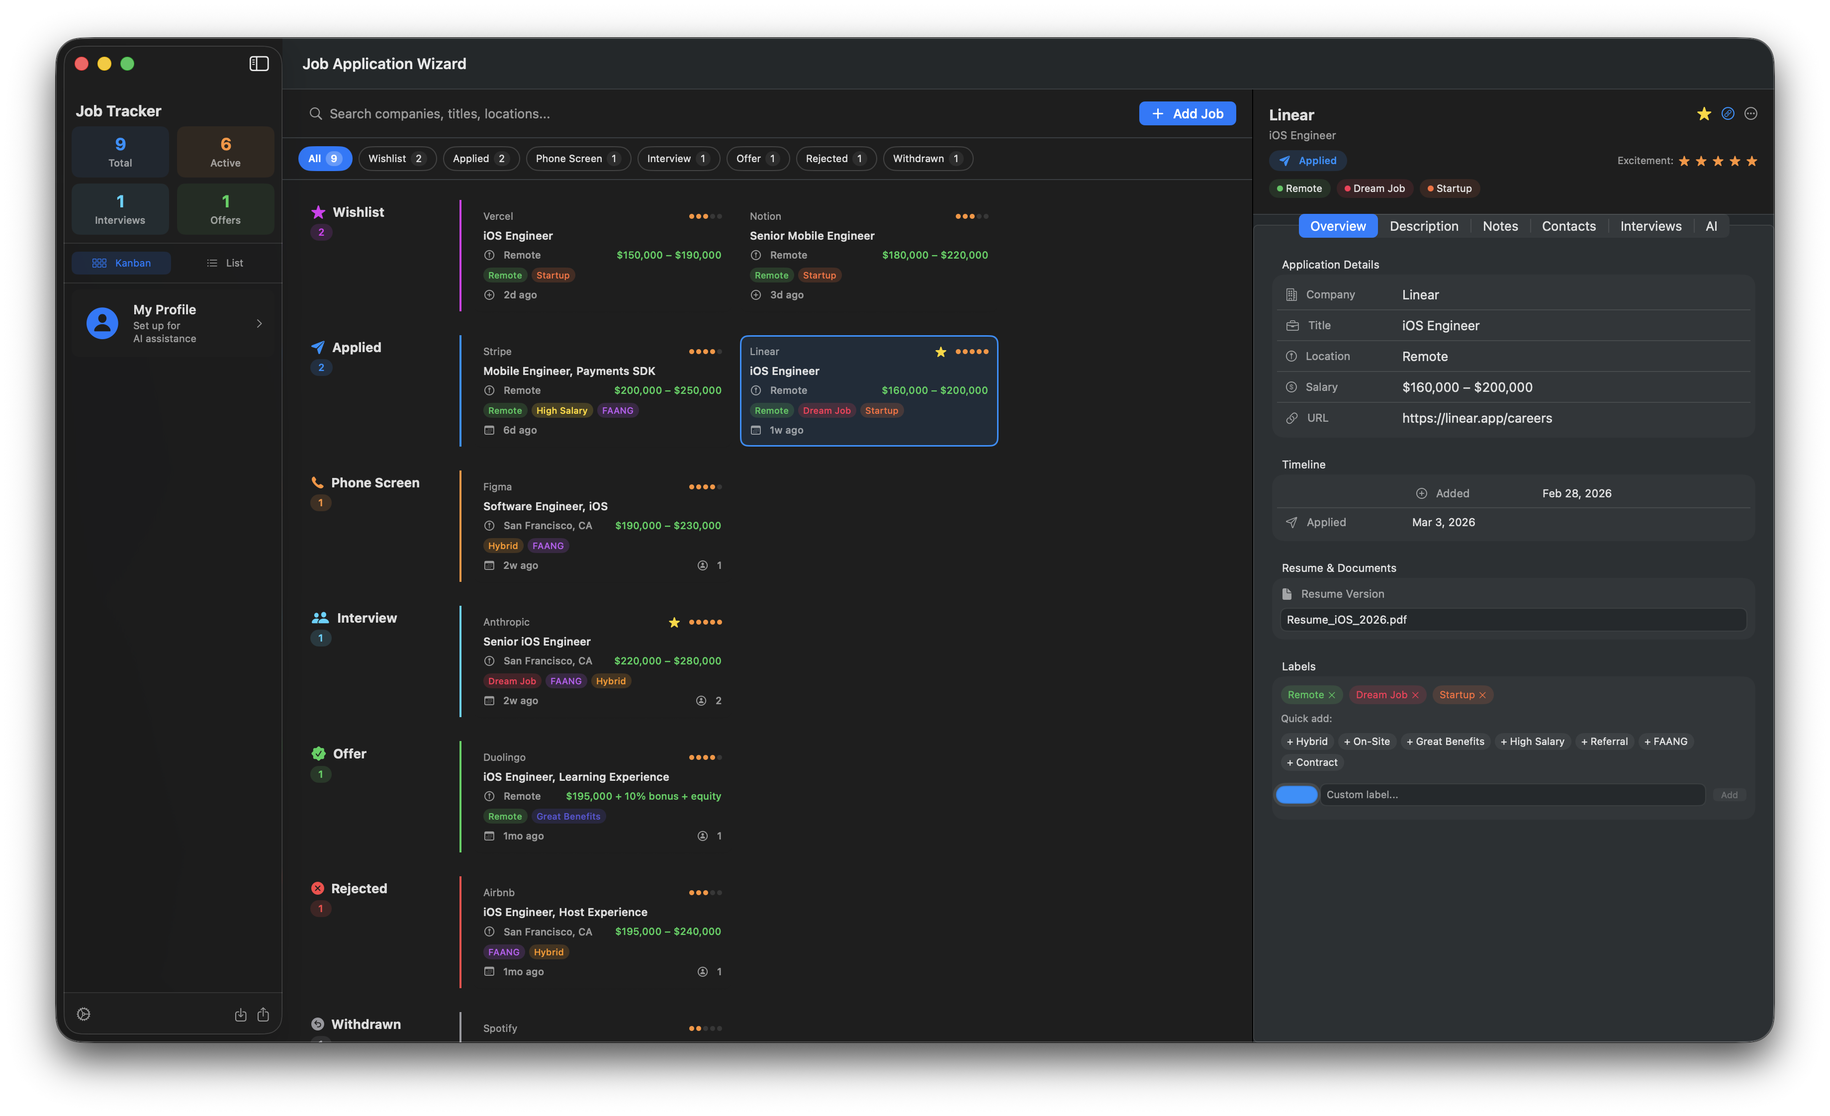
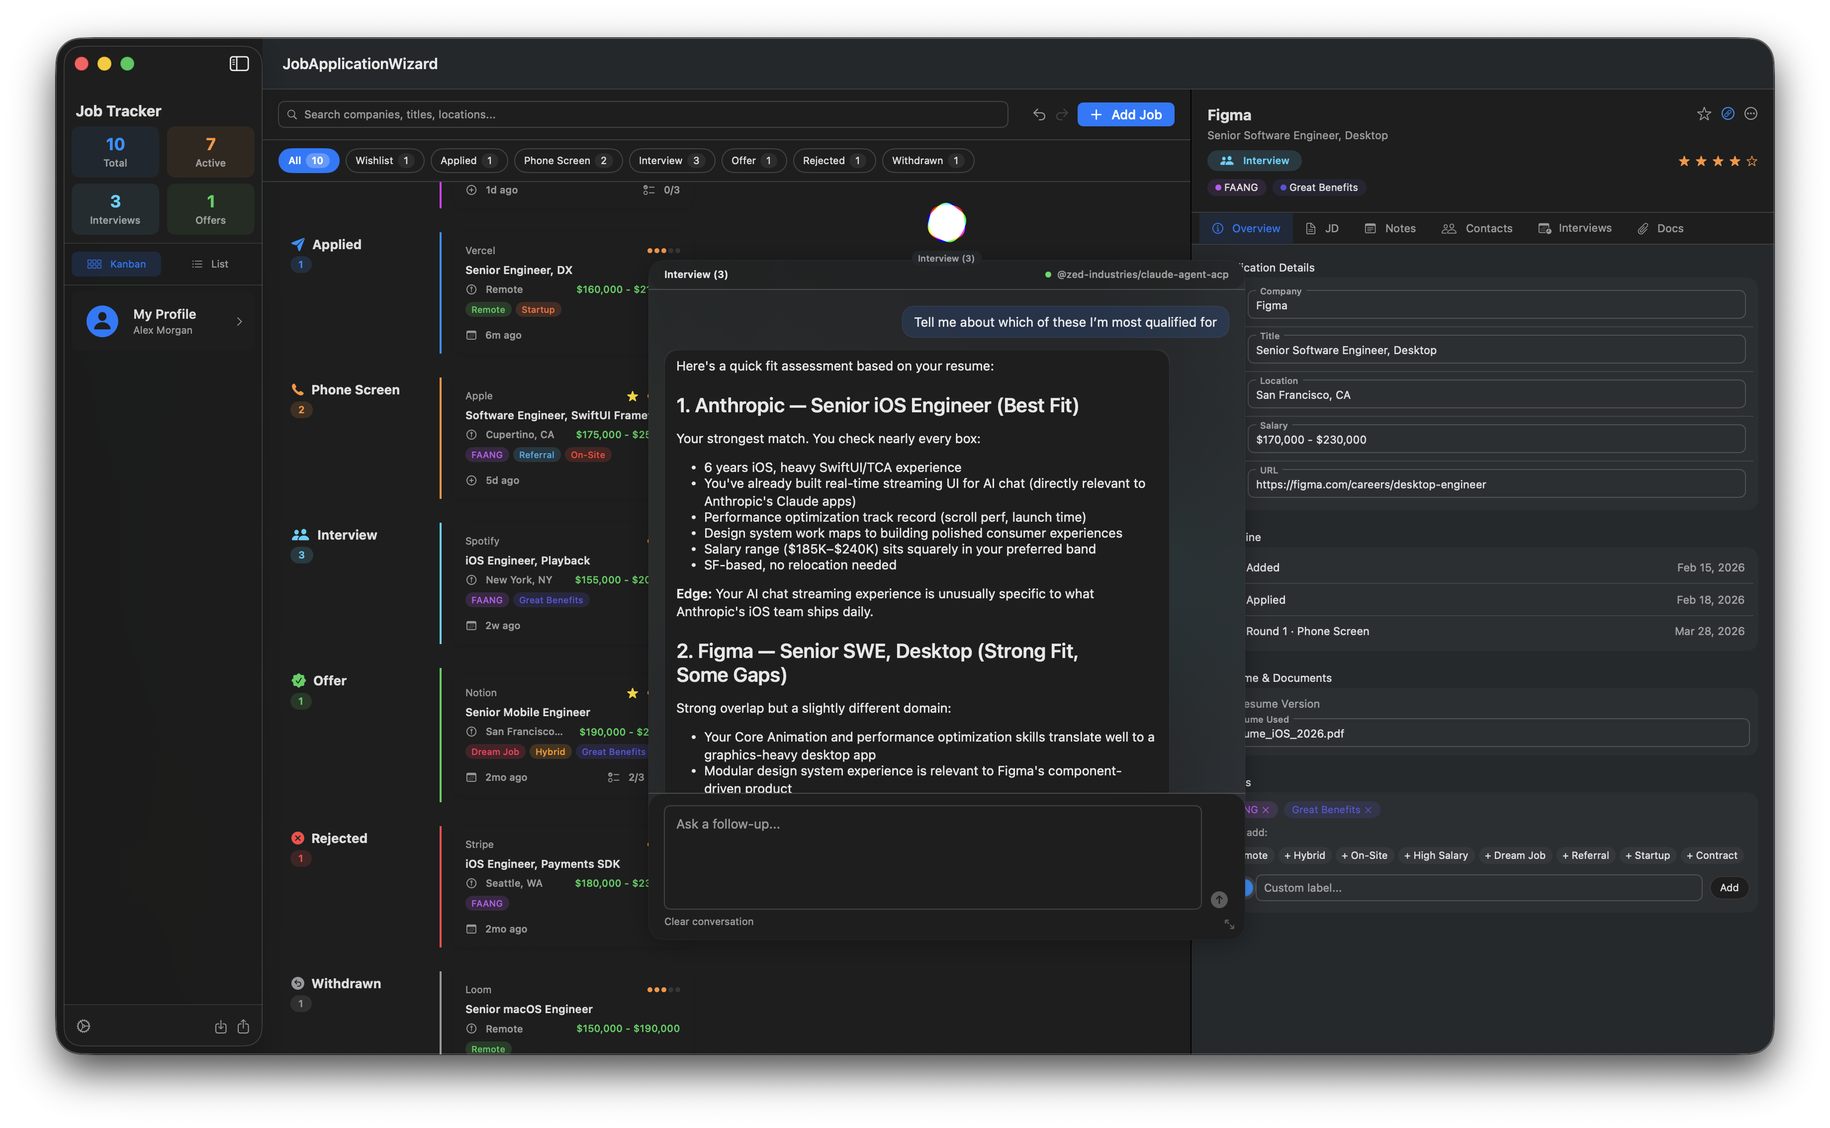
docs: update README for v3.0.4 and replace screenshot
Rewrite README to cover Cuttle, calendar integration, design system,
history/undo, subtasks, column sorting, JSON backup/restore, and
Sparkle auto-updates. Fix license badge from MIT to GPLv3. Update
architecture tree with all 60 source files. Replace screenshot with
current app showing Kanban board, Cuttle conversation, and detail panel.

diff --git a/README.md b/README.md
@@ -1,8 +1,8 @@
 # Job Application Wizard
 
-A native macOS app for managing your job search — track applications on a Kanban board, save job descriptions before they disappear, manage contacts and interview rounds, and get AI-powered career coaching from any ACP-compatible agent or the Claude API.
+A native macOS app for managing your job search: track applications on a Kanban board, save job descriptions before they disappear, sync interviews with your calendar, and get AI-powered career coaching through Cuttle, a context-aware floating assistant.
 
-![macOS 14+](https://img.shields.io/badge/macOS-14%2B-blue) ![Swift](https://img.shields.io/badge/Swift-5.9-orange) ![License](https://img.shields.io/badge/license-MIT-green)
+![macOS 14+](https://img.shields.io/badge/macOS-14%2B-blue) ![Swift](https://img.shields.io/badge/Swift-5.9-orange) ![License](https://img.shields.io/badge/license-GPLv3-blue)
 
 ![Job Application Wizard screenshot](screenshot.png)
 
@@ -11,38 +11,47 @@ A native macOS app for managing your job search — track applications on a Kanb
 ## Features
 
 ### Kanban Board & List View
-Pipeline across all stages: Wishlist → Applied → Phone Screen → Interview → Offer → Rejected / Withdrawn. Toggle between a Kanban board and a compact List view at any time. A status filter bar lets you narrow to a single stage — in Kanban mode, filtering shows only that column.
+Pipeline across all stages: Wishlist, Applied, Phone Screen, Interview, Offer, Rejected, Withdrawn. Toggle between a Kanban board and a sortable List view at any time. The List view supports column sorting by company, excitement, status, location, salary, and date added. A status filter bar lets you narrow to a single stage; in Kanban mode, filtering shows only that column.
 
 ### Job Detail
 Each application has a full detail panel with tabbed sections:
 
-- **Overview** — Company, title, location, salary, URL, timeline, resume version used, color-coded labels, excitement rating (1–5), and favorite flag
-- **Description** — Full-text job description storage (paste it before the posting disappears). Print, Save PDF, or Copy to clipboard with one click.
-- **Notes** — Multi-card note system with title, subtitle, tags, and body. Cards shown in a responsive grid.
-- **Contacts** — Track recruiters, hiring managers, and referrals with name, title, email, LinkedIn, notes, and connected status
-- **Interviews** — Log each interview round with type, date, interviewers, notes, and completion status
-- **AI** — Multi-turn Claude chat assistant (see below)
+- **Overview** — company, title, location, salary, URL, timeline, resume version, color-coded labels, excitement rating (1–5), favorite flag, and per-status subtask checklist
+- **Description** — full-text job description storage (paste it before the posting disappears); print, save PDF, or copy to clipboard
+- **Notes** — multi-card note system with title, subtitle, tags, and body in a responsive grid
+- **Contacts** — track recruiters, hiring managers, and referrals with name, title, email, LinkedIn, notes, and connected status
+- **Interviews** — log each round with type, date, interviewers, notes, completion status, and linked calendar events with countdown badges
+- **Documents** — attach and manage files per application
 
-### AI Chat Assistant
-A full conversational chat interface scoped to the job you're viewing. The system prompt includes the job title, company, status, and full description — and, when configured, your personal profile (resume, skills, target roles, work preference) — so your AI has complete context without you having to paste anything.
+### Cuttle: AI Assistant
+Cuttle is a free-floating, draggable AI assistant that docks to any panel in the app. It replaces the traditional side panel with a context-aware blob that knows what you're looking at: a specific job, a pipeline stage, or the whole board. Cuttle renders markdown in chat bubbles and maintains separate conversation histories per context.
 
 **Two provider options:**
 
 | Provider | How it works |
 |---|---|
-| **ACP Agent** (default) | Connect to any [Agent Client Protocol](https://agentclientprotocol.com)-compatible agent — Claude, Goose, Copilot, and more. Agents are discovered from a public registry and launched as local subprocesses. No API key needed. |
+| **ACP Agent** (default) | Connect to any [Agent Client Protocol](https://agentclientprotocol.com)-compatible agent; Claude, Goose, Copilot, and more. Agents are discovered from a public registry and launched as local subprocesses. No API key needed. |
 | **Claude API** | Direct Anthropic API integration. Requires your own API key (stored in the system Keychain). Shows token usage and estimated cost per response. |
 
 **Quick-start modes** (pre-populated prompts):
 | Mode | What it does |
 |---|---|
 | Chat | Open-ended conversation about the application |
-| Tailor Resume | Get keyword-matched bullet suggestions against the JD |
-| Cover Letter | Generate a tailored 3–4 paragraph cover letter |
-| Interview Prep | Generate behavioral + technical questions with STAR-framework answers |
-| Analyze Fit | Get a fit score and gap analysis against the job description |
+| Tailor Resume | Keyword-matched bullet suggestions against the JD |
+| Cover Letter | Tailored 3–4 paragraph cover letter |
+| Interview Prep | Behavioral and technical questions with STAR-framework answers |
+| Analyze Fit | Fit score and gap analysis against the job description |
 
-After sending a specialized mode prompt, the interface resets to Chat so follow-up questions are natural. The full conversation history is sent with every request for genuine multi-turn context.
+Cuttle includes an agent action system with reversible history, so AI-suggested changes can be reviewed and undone.
+
+### Calendar Integration
+Link interview rounds to macOS Calendar events. The app syncs on activate, detects rescheduled or deleted events, and shows interview countdown badges on both Kanban cards and List rows.
+
+### History & Undo
+A time-travel system tracks all changes (manual and AI-driven) as reversible events. Field updates, status changes, note edits, contact modifications, and document operations can all be undone.
+
+### Design System
+A semantic token layer (colors, typography, spacing, radii, shadows, materials) drives all views. Glass surfaces, iridescent sheen on Cuttle-docked panels, outlined fields with floating labels, and consistent button styles (pill, ghost, action) give the app a cohesive visual language. A standalone DesignSystemShowcase app lets contributors preview every component.
 
 ### My Profile
 A personal profile (accessible from the sidebar) feeds context into every AI request:
@@ -51,22 +60,24 @@ A personal profile (accessible from the sidebar) feeds context into every AI req
 - Summary, target roles, skills, preferred salary, work preference
 - Full resume text and cover letter template
 
-When profile fields are populated, Claude sees structured candidate context alongside the job description, making tailored resume and cover letter output significantly more accurate.
+When profile fields are populated, the AI sees structured candidate context alongside the job description, making tailored output significantly more accurate.
 
 ### Settings (⌘,)
 A four-tab settings panel:
 
-- **General** — Set your default launch view (Kanban or List), persisted across launches
-- **AI Provider** — Choose between ACP Agent or Claude API. For ACP: browse the agent registry, select an agent, and connect/disconnect with a status indicator. For Claude API: enter your API key (stored in the system Keychain, never on disk).
-- **Data** — Export all applications to CSV, import from CSV (merges by ID), or reset all data with a confirmation dialog
-- **About** — App version
+- **General** — default launch view (Kanban or List), persisted across launches
+- **AI Provider** — choose between ACP Agent or Claude API; for ACP, browse the agent registry, select an agent, and connect/disconnect with a status indicator; for Claude API, enter your API key (stored in the system Keychain, never on disk)
+- **Data** — export all applications to CSV, import from CSV (merges by ID), full JSON backup and restore, or reset all data
+- **About** — app version with Sparkle auto-update support
 
 ### Other
-- **Labels** — Tag applications with preset or custom color-coded labels (Remote, Hybrid, Dream Job, Referral, FAANG, etc.)
-- **Favorites & Excitement** — Star favorites and rate excitement 1–5 for quick prioritization
-- **CSV Import/Export** — Round-trip your data at any time; you always own it
-- **PDF Export** — Generate a clean, properly laid-out PDF of any job description
-- **Persistence** — Applications and settings saved to JSON in `~/Library/Application Support`. API key stored in the system Keychain.
+- **Labels** — tag applications with preset or custom color-coded labels (Remote, Hybrid, Dream Job, Referral, FAANG, etc.)
+- **Favorites & Excitement** — star favorites and rate excitement 1–5 for quick prioritization
+- **Subtasks** — per-status checklist items on each application
+- **CSV Import/Export** — round-trip your data at any time; you always own it
+- **JSON Backup/Restore** — full application data backup and restore
+- **PDF Export** — generate a clean PDF of any job description
+- **Persistence** — applications and settings saved to JSON in `~/Library/Application Support`; API key stored in the system Keychain
 
 ---
 
@@ -75,17 +86,17 @@ A four-tab settings panel:
 - macOS 14 (Sonoma) or later
 - For **ACP Agent** mode: Node.js (for npx-based agents) or a compatible binary agent installed locally
 - For **Claude API** mode: a [Claude API key](https://console.anthropic.com/)
-- AI features are optional — all other features work without any provider configured
+- AI features are optional; all other features work without any provider configured
 
 ---
 
 ## Installation
 
 ### Download
-Grab the latest DMG from the [Releases](https://github.com/zacspa/JobApplicationWizard/releases) page — it's signed and notarized.
+Grab the latest DMG from the [Releases](https://github.com/zacspa/JobApplicationWizard/releases) page; it's signed and notarized. The app checks for updates automatically via Sparkle.
 
 ### Build from source (Xcode)
-The easiest way to build from source — macros are enabled via a one-time trust prompt.
+The easiest way to build from source; macros are enabled via a one-time trust prompt.
 
 ```bash
 git clone https://github.com/zacspa/JobApplicationWizard
@@ -93,7 +104,7 @@ cd JobApplicationWizard
 open Package.swift
 ```
 
-Xcode will ask you to trust the Swift macro targets from TCA — click **Trust & Enable**. Then build and run (⌘R).
+Xcode will ask you to trust the Swift macro targets from TCA; click **Trust & Enable**. Then build and run (⌘R).
 
 ### Build from source (command line)
 Requires Xcode command-line tools. This project uses TCA's Swift macro plugins, which
@@ -122,10 +133,10 @@ open "$APP"
 
 ## Setup
 
-1. Launch the app — an onboarding screen walks you through the main features
+1. Launch the app; an onboarding screen walks you through the main features
 2. Open **Settings** (⌘,) → **AI Provider**
-   - **ACP Agent** (default): Click **Refresh** to load the agent registry, select an agent (e.g. Claude Agent), and click **Connect**. First-time npx agents may take a moment to download.
-   - **Claude API**: Switch to Claude API and paste your Anthropic API key. The key is stored securely in the macOS Keychain and never leaves your machine except for direct calls to the Anthropic API.
+   - **ACP Agent** (default): click **Refresh** to load the agent registry, select an agent (e.g. Claude Agent), and click **Connect**. First-time npx agents may take a moment to download.
+   - **Claude API**: switch to Claude API and paste your Anthropic API key. The key is stored securely in the macOS Keychain and never leaves your machine except for direct calls to the Anthropic API.
 3. Click **My Profile** in the sidebar to add your resume and background (optional, but improves AI output significantly)
 4. Press **⌘N** or click **Add Job** to add your first application
 
@@ -138,45 +149,87 @@ Built with [The Composable Architecture (TCA)](https://github.com/pointfreeco/sw
 ```
 Sources/
 ├── JobApplicationWizard/
-│   └── App.swift                             # SwiftUI App entry, Window scenes
+│   └── App.swift                              # SwiftUI App entry, window scenes
+├── DesignSystemShowcase/
+│   ├── ShowcaseApp.swift                      # Standalone DS preview app
+│   └── ShowcaseSections.swift                 # Component gallery sections
 └── JobApplicationWizardCore/
-    ├── Models.swift                          # JobApplication, JobStatus, JobLabel,
-    │                                         #   Contact, InterviewRound, Note,
-    │                                         #   UserProfile, AppSettings, AIProvider,
-    │                                         #   ACPConnectionState, ChatMessage
+    ├── Models.swift                           # JobApplication, JobStatus, JobLabel,
+    │                                          #   Contact, InterviewRound, Note,
+    │                                          #   SubTask, JobDocument, UserProfile,
+    │                                          #   AppSettings, AIProvider,
+    │                                          #   ACPConnectionState, ChatMessage
+    ├── DesignSystem/
+    │   ├── DS.swift                           # Token namespace
+    │   ├── DSColor.swift, DSTypography.swift  # Color and type tokens
+    │   ├── DSSpacing.swift, DSRadius.swift    # Spacing and radius scales
+    │   ├── DSShadow.swift, DSMaterial.swift   # Shadow and material tokens
+    │   ├── DSAccent.swift                     # Lane accent colors
+    │   ├── PillButtonStyle.swift              # Filter pill buttons
+    │   ├── GhostButtonStyle.swift             # Undo/redo ghost buttons
+    │   ├── DSActionButtonStyle.swift          # Primary action buttons
+    │   ├── GlassSurfaceModifier.swift         # Glass panel backgrounds
+    │   ├── IridescentSheenModifier.swift      # Cuttle dock sheen effect
+    │   ├── CardModifier.swift                 # Job card styling
+    │   ├── DSTextField.swift                  # AppKit-backed text field
+    │   ├── DSDateField.swift                  # Optional date picker
+    │   ├── DSTextEditorStyle.swift            # Outlined text editor
+    │   └── ...                                # Section headers, detail rows,
+    │                                          #   action bars, inline fields
     ├── Features/
-    │   ├── App/AppFeature.swift              # Root reducer — job list, search,
-    │   │                                     #   filter, settings, ACP lifecycle
-    │   ├── AddJob/AddJobFeature.swift        # Add job form reducer
-    │   └── JobDetail/JobDetailFeature.swift  # Detail reducer — all tabs, AI chat,
-    │                                         #   PDF actions
+    │   ├── App/AppFeature.swift               # Root reducer: job list, search,
+    │   │                                      #   filter, settings, ACP lifecycle
+    │   ├── AddJob/AddJobFeature.swift         # Add job form reducer
+    │   ├── JobDetail/JobDetailFeature.swift   # Detail reducer: all tabs, AI chat,
+    │   │                                      #   PDF actions, calendar linking
+    │   ├── Calendar/
+    │   │   ├── CalendarFeature.swift          # Calendar sync reducer
+    │   │   └── CalendarSyncModels.swift       # Sync state and event models
+    │   ├── Cuttle/
+    │   │   ├── CuttleFeature.swift            # Cuttle reducer: dock, chat, mood
+    │   │   ├── CuttleContext.swift            # Scoping: global, status, job
+    │   │   ├── CuttlePromptBuilder.swift      # Context-aware system prompts
+    │   │   ├── AgentActionParser.swift        # Parse AI-suggested changes
+    │   │   └── TextActionExtractor.swift      # Extract actions from responses
+    │   └── History/
+    │       ├── HistoryFeature.swift           # Undo/redo reducer
+    │       ├── HistoryEvent.swift             # Reversible event types
+    │       └── HistoryTimelineView.swift      # Visual timeline of changes
     ├── ACP/
-    │   └── ACPRegistryClient.swift           # Agent registry fetch + types
+    │   └── ACPRegistryClient.swift            # Agent registry fetch and types
     ├── Dependencies/
-    │   ├── ACPClient.swift                   # ACP subprocess lifecycle, transport,
-    │   │                                     #   JSON-RPC handshake, prompt/response
-    │   ├── ClaudeClient.swift                # Anthropic API — multi-turn chat
-    │   ├── PersistenceClient.swift           # JSON load/save, CSV import/export,
-    │   │                                     #   NSSavePanel / NSOpenPanel
-    │   ├── PDFClient.swift                   # NSPrintOperation, PDF generation
-    │   └── KeychainClient.swift              # Secure API key storage
-    ├── ContentView.swift                     # Root layout (NavigationSplitView),
-    │                                         #   StatusFilterBar, onboarding sheet
-    ├── SidebarView.swift                     # Stats, view mode toggle, profile card
-    ├── KanbanView.swift                      # Kanban board (respects status filter)
-    ├── ListView.swift                        # Compact list view
-    ├── JobDetailView.swift                   # Detail panel + all tab views + chat UI
-    ├── AddJobView.swift                      # Add job form (separate window)
-    ├── ProfileView.swift                     # User profile editor sheet
-    ├── SettingsView.swift                    # 4-tab settings panel
+    │   ├── ACPClient.swift                    # ACP subprocess lifecycle, transport,
+    │   │                                      #   JSON-RPC handshake, prompt/response
+    │   ├── CalendarClient.swift               # EKEventStore integration
+    │   ├── ClaudeClient.swift                 # Anthropic API: multi-turn chat
+    │   ├── DocumentClient.swift               # File attachment management
+    │   ├── HistoryClient.swift                # History persistence
+    │   ├── PersistenceClient.swift            # JSON load/save, CSV import/export,
+    │   │                                      #   JSON backup/restore
+    │   ├── PDFClient.swift                    # NSPrintOperation, PDF generation
+    │   └── KeychainClient.swift               # Secure API key storage
+    ├── ContentView.swift                      # Root layout (NavigationSplitView),
+    │                                          #   StatusFilterBar, onboarding sheet
+    ├── SidebarView.swift                      # Stats, view mode toggle, profile card
+    ├── KanbanView.swift                       # Kanban board (respects status filter)
+    ├── ListView.swift                         # Sortable table with column headers
+    ├── JobDetailView.swift                    # Detail panel, all tab views, chat UI
+    ├── AddJobView.swift                       # Add job form (separate window)
+    ├── CuttleView.swift                       # Floating AI blob: drag, dock, expand
+    ├── ProfileView.swift                      # User profile editor sheet
+    ├── SettingsView.swift                     # 4-tab settings panel
+    ├── Views/
+    │   └── CalendarEventPickerView.swift      # Event search and day grouping
     └── Components/
-        ├── DebugMenu.swift                   # Debug panel (⇧⌘D, DEBUG builds)
-        └── ThinkingBubble.swift              # Animated AI thinking indicator
+        ├── ChatComponents.swift               # Reusable chat bubble UI
+        ├── DebugMenu.swift                    # Debug panel (⇧⌘D, DEBUG builds)
+        ├── JitterCircle.swift                 # Animated Cuttle mood indicator
+        └── ThinkingBubble.swift               # Animated AI thinking indicator
 ```
 
 **Key TCA patterns used:**
 - `BindingReducer()` + flat state for all form fields (avoids NavigationSplitView first-responder issues on macOS)
-- `@Dependency` for all external clients (ACP, Claude, Persistence, PDF, Keychain)
+- `@Dependency` for all external clients (ACP, Calendar, Claude, Document, History, PDF, Keychain, Persistence)
 - `@Shared(.inMemory)` for ACP connection state shared across features (no manual passthrough)
 - `.cancellable(id:cancelInFlight:true)` on AI requests to prevent races
 - Delegate actions for cross-feature communication (`jobUpdated`, `jobDeleted`)
